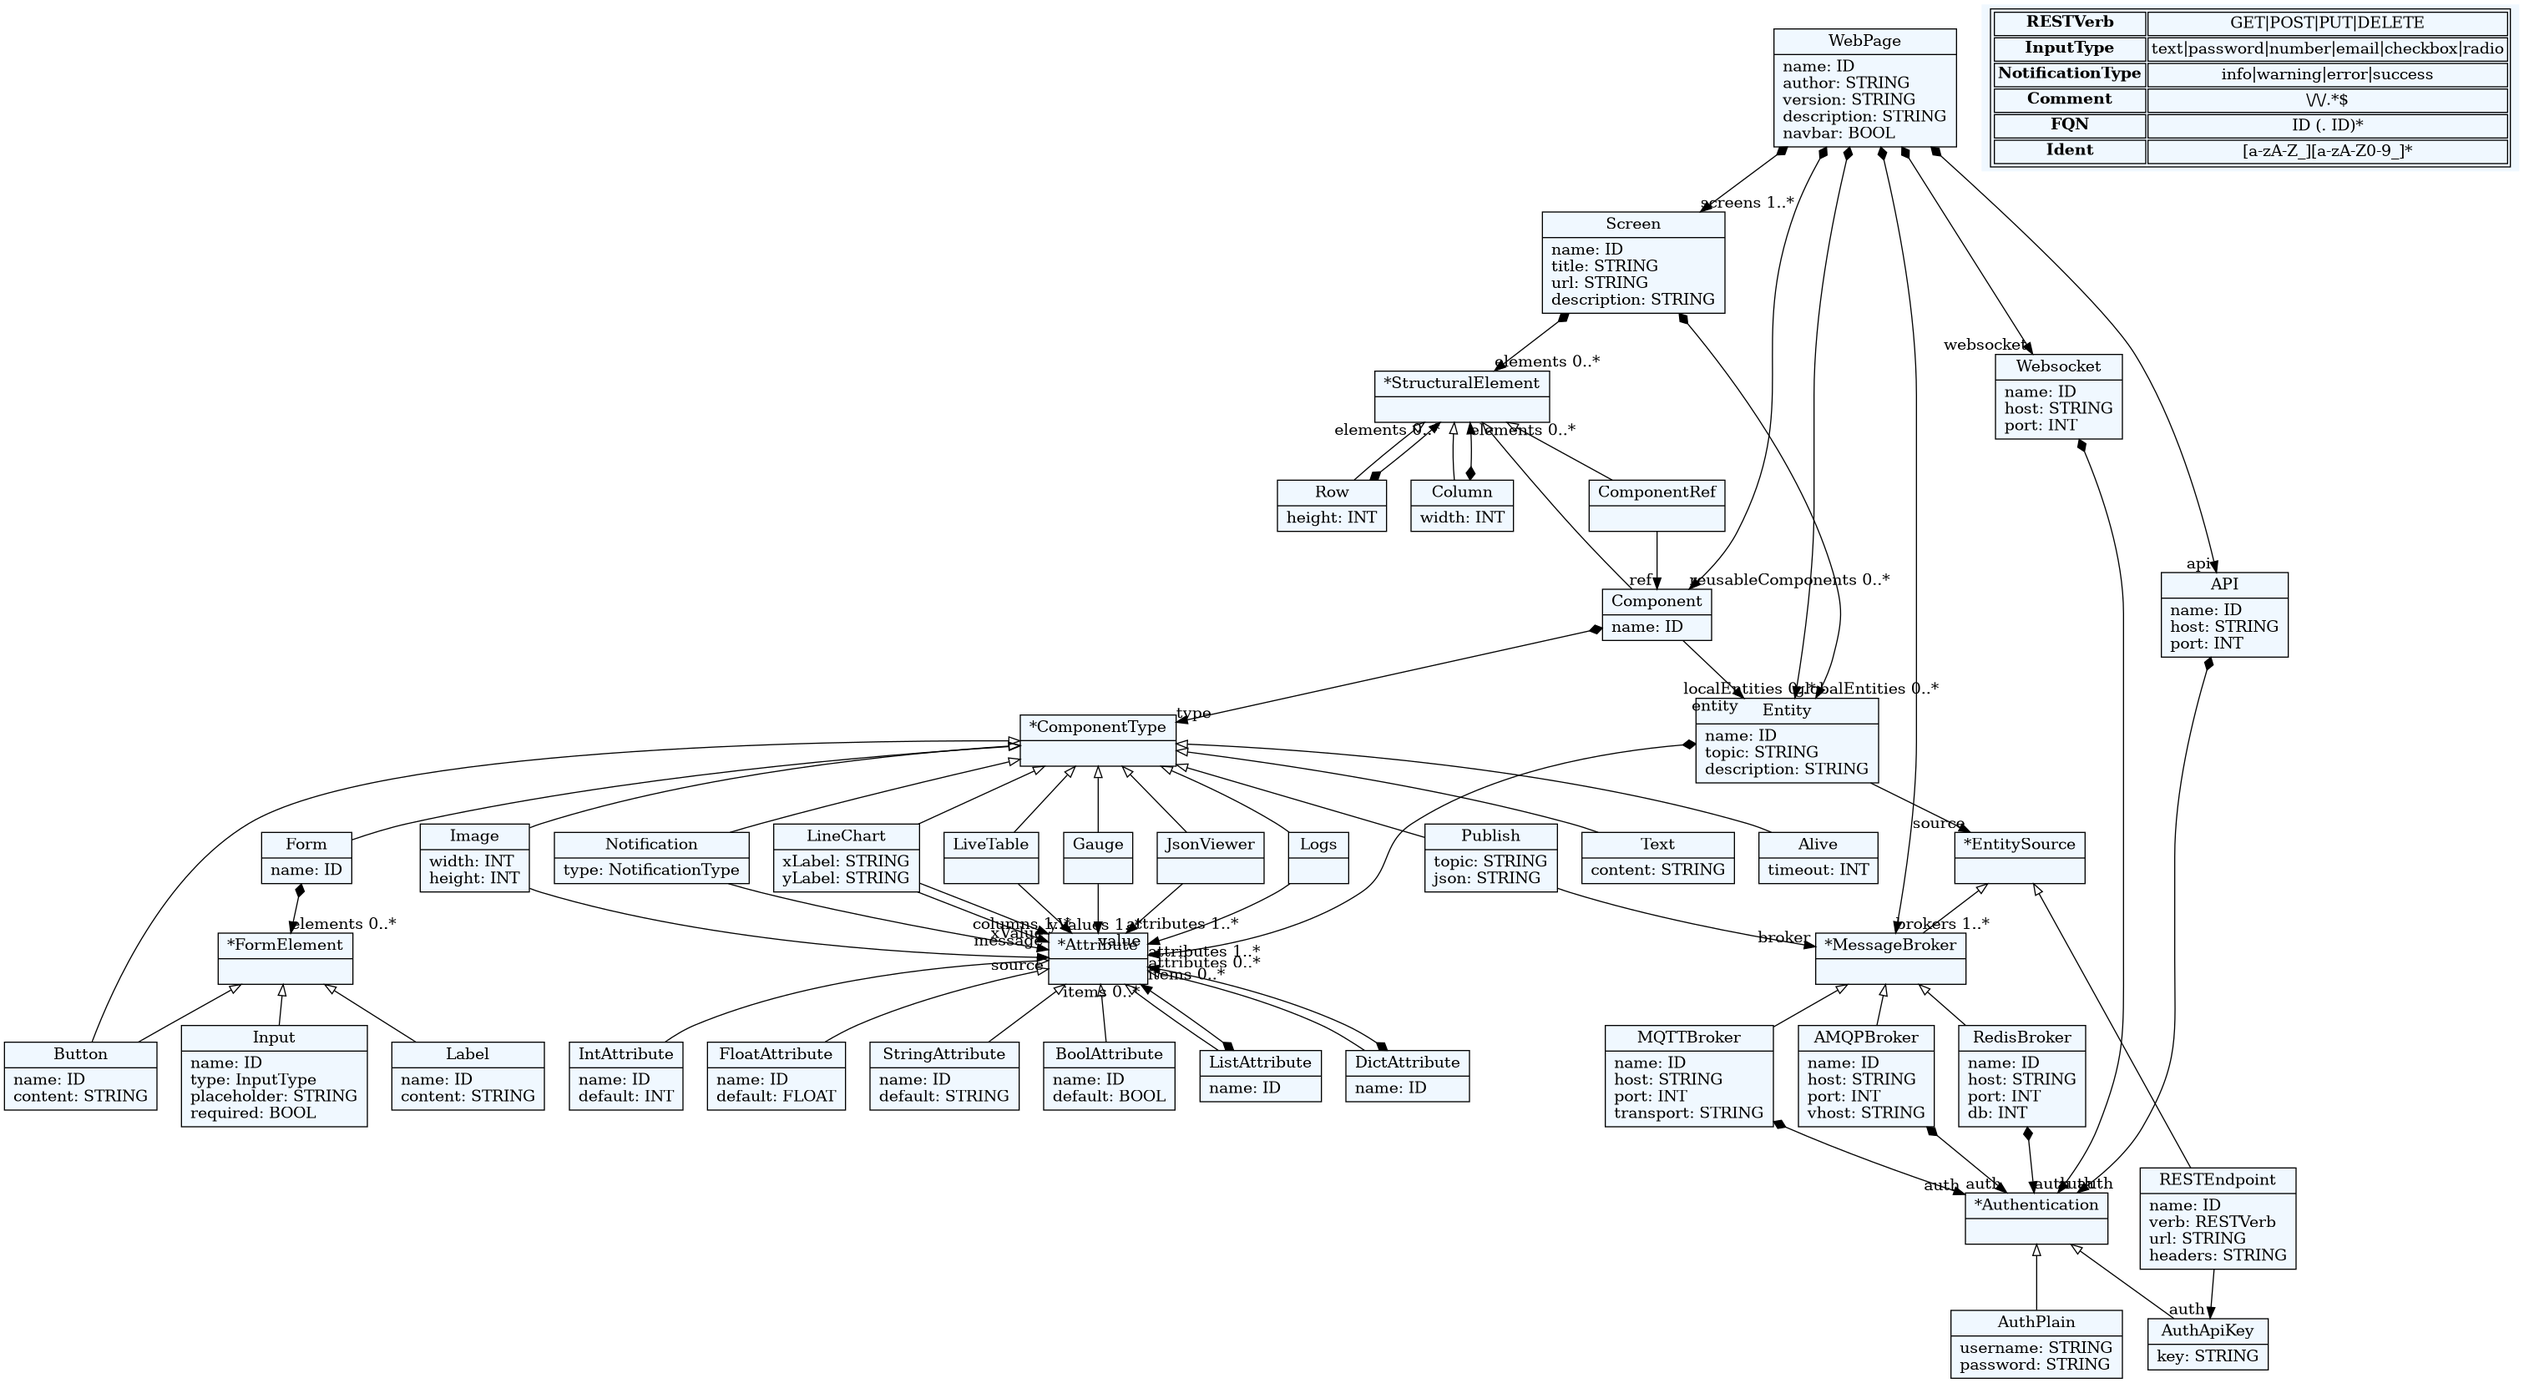
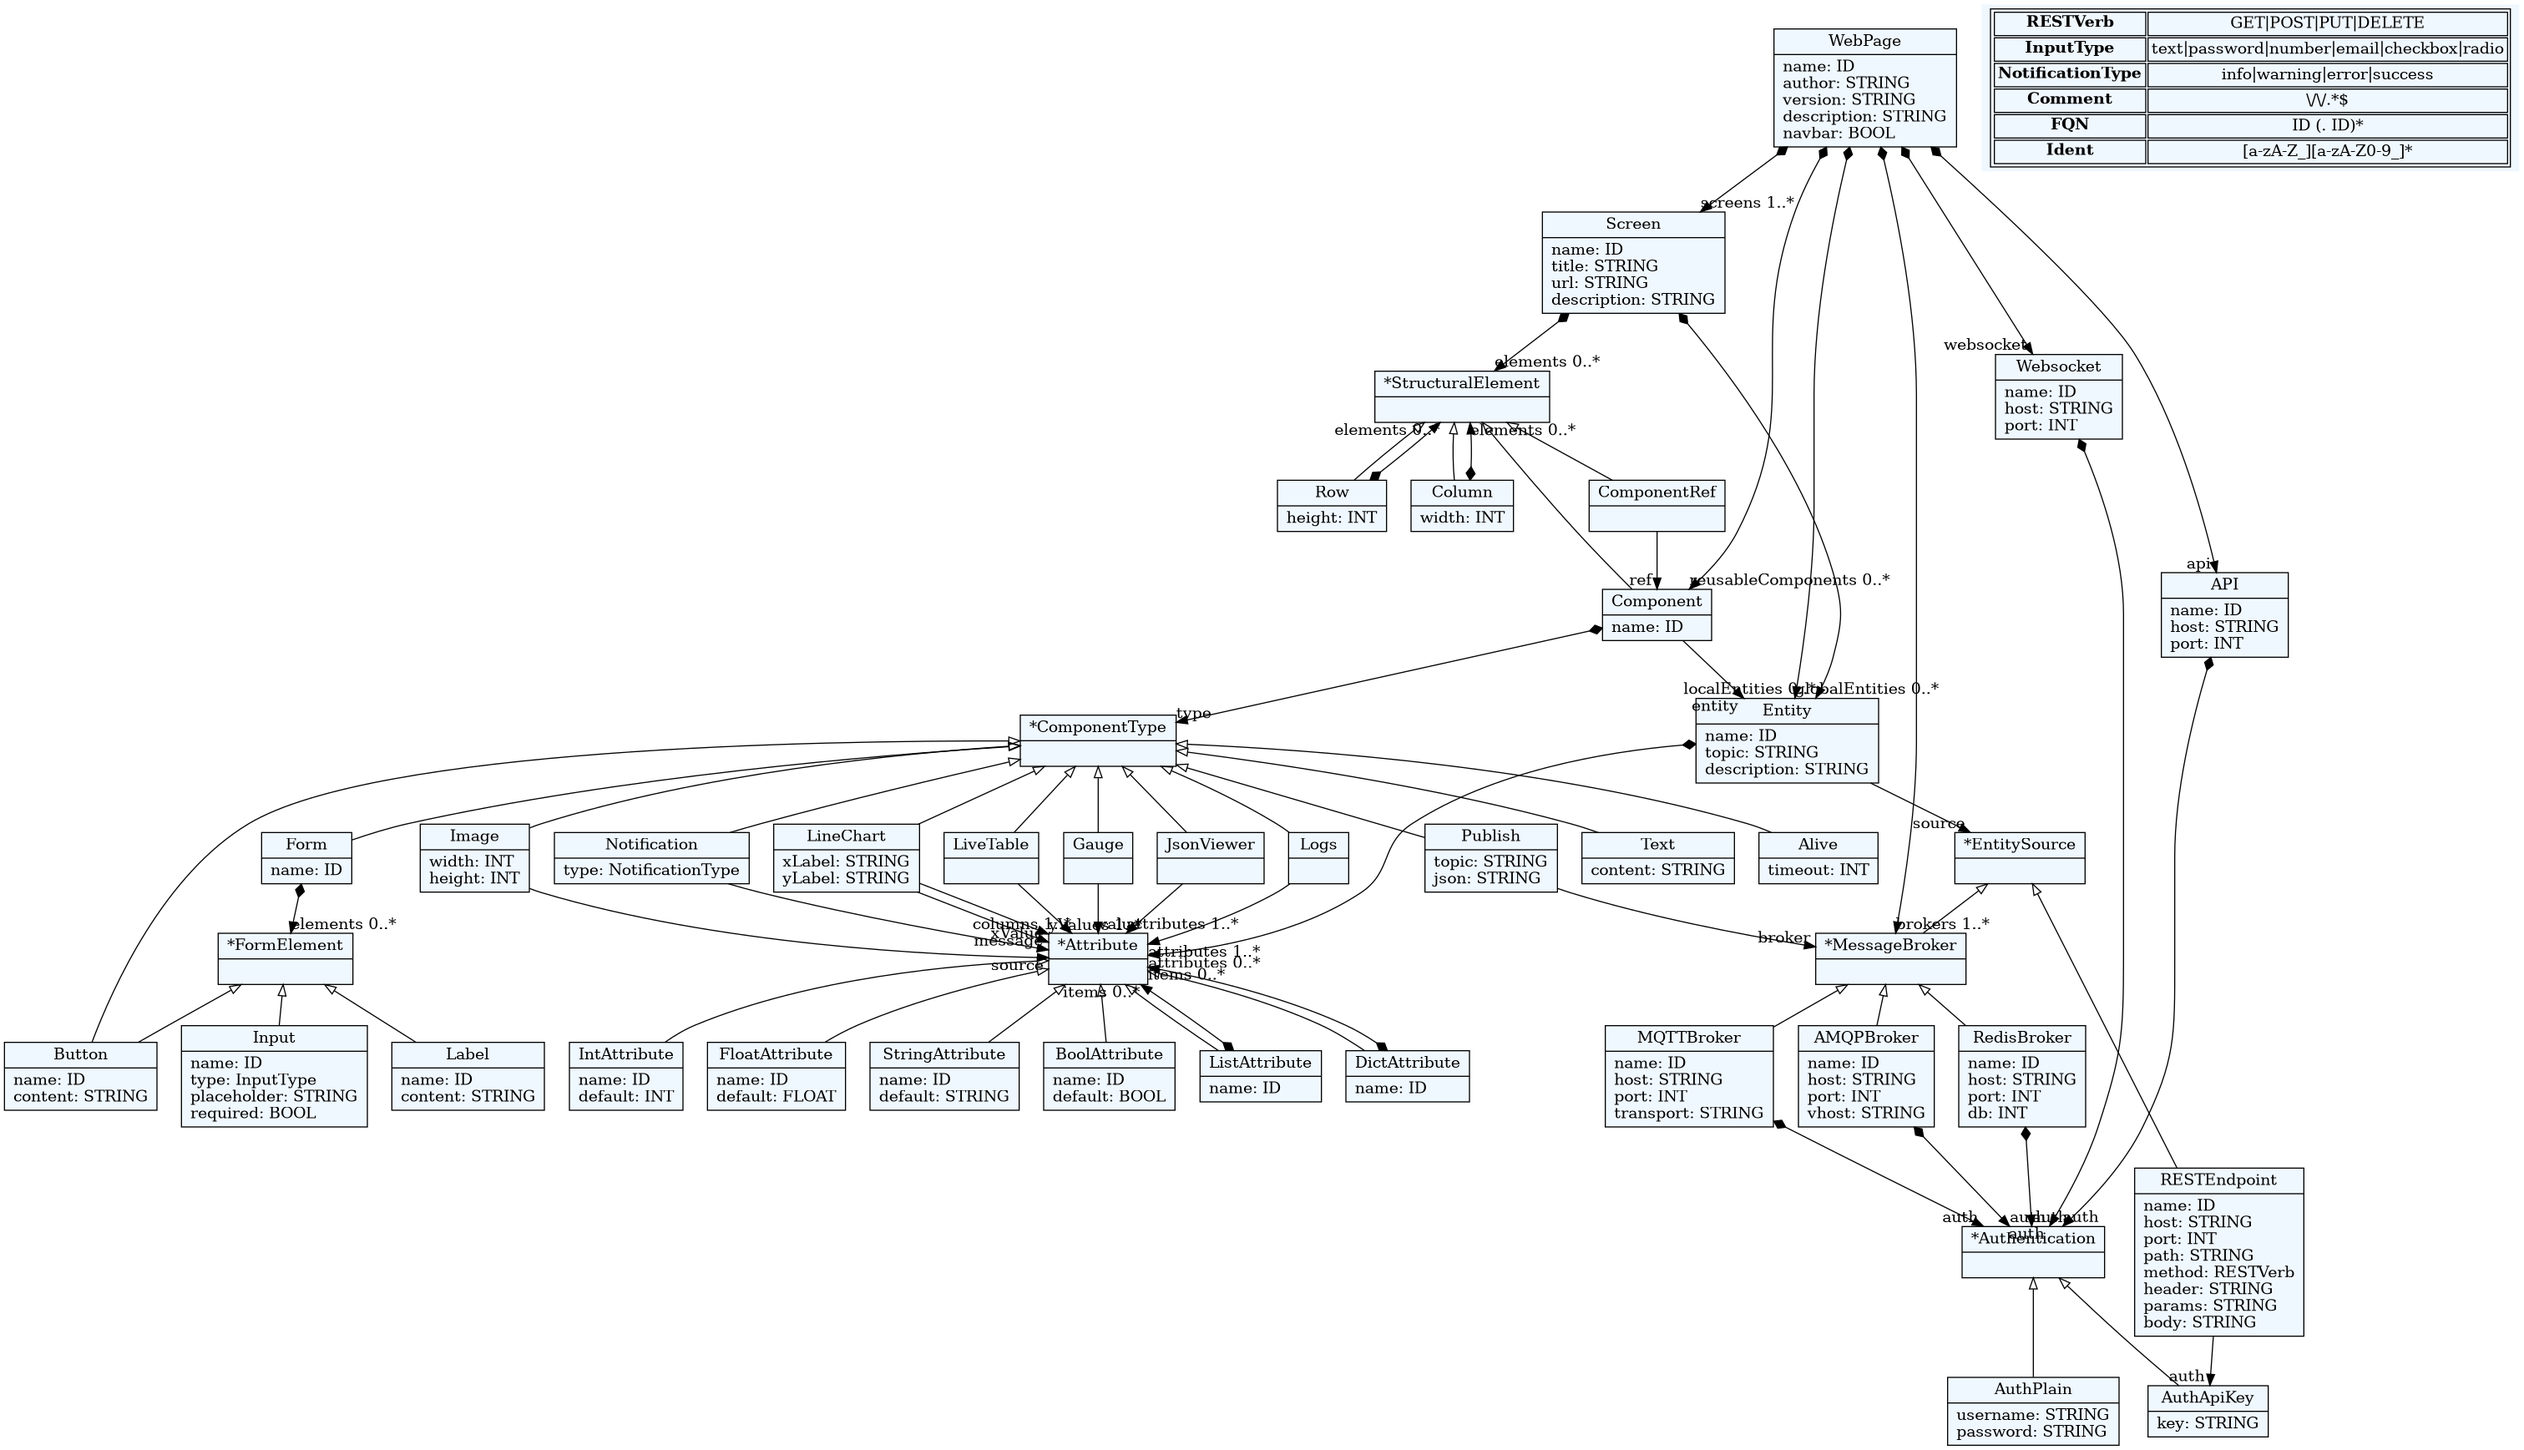
Rest endpoint corrected

Changed region(s): [[0.0, 0.0, 0.995, 1.0], [0.8396, 0.3693, 0.9018, 0.4925], [0.7774, 0.2154, 0.8396, 0.3386]]

diff --git a/web_dsl/base/frontend_base/src/api/proxyRestCall.js b/web_dsl/base/frontend_base/src/api/proxyRestCall.js
@@ -2,20 +2,19 @@ import api from "./index";
 import { toast } from "react-toastify";
 
 export const proxyRestCall = async ({
-    baseUrl,
+    host,
+    port = 443,
     path,
     method = "GET",
     headers = {},
     params = {},
-    body = {},
-    port = 443
+    body = {}
 }) => {
     try {
         const restCallPayload = {
-            host: new URL(baseUrl).hostname,
+            host,
             port,
             path,
-            base_url: baseUrl,
             method,
             headers,
             params,

diff --git a/web_dsl/base/backend_base/main.py b/web_dsl/base/backend_base/main.py
@@ -147,17 +147,6 @@ class PublishRequest(BaseModel):
     topic: str
 
 
-class RESTCallRequest(BaseModel):
-    host: str
-    port: int
-    path: str
-    base_url: str
-    method: str
-    headers: dict
-    params: dict
-    body: dict
-
-
 # Publish API endpoint
 @app.post("/publish")
 async def publish_message(
@@ -181,7 +170,17 @@ async def publish_message(
     return {"status": "error", "message": f"Broker {broker} not found"}
 
 
-# Endpoint to make rest calls
+class RESTCallRequest(BaseModel):
+    host: str
+    port: int
+    path: str
+    base_url: str
+    method: str
+    headers: dict
+    params: dict
+    body: dict
+
+
 @app.post("/restcall")
 async def rest_call(request: RESTCallRequest, api_key: str = Security(get_api_key)):
     """Make a REST call to a specified endpoint."""
@@ -198,17 +197,10 @@ async def rest_call(request: RESTCallRequest, api_key: str = Security(get_api_ke
                 json=request.body,  # use `data=` if it's form-encoded or raw
             )
 
-        return {
-            "status_code": response.status_code,
-            "headers": dict(response.headers),
-            "body": (
-                response.json()
-                if response.headers.get("content-type", "").startswith(
-                    "application/json"
-                )
-                else response.text
-            ),
-        }
+            if response.headers.get("content-type", "").startswith("application/json"):
+                return response.json()
+            else:
+                return response.text
 
     except httpx.RequestError as e:
         logging.error(f"HTTP request failed: {e}")

diff --git a/web_dsl/generate.py b/web_dsl/generate.py
@@ -143,7 +143,7 @@ def generate(model_path, gen_path):
         topic_configs.append(
             {
                 "topic": entity.topic,
-                "broker": entity.source.ref.name,
+                "broker": entity.source.name,
             }
         )
     print("Topic Configs: ", topic_configs)
@@ -195,7 +195,6 @@ def collect_entities(node, entities):
     """
     # Get the class name of the node
     node_type = node.__class__.__name__
-    print(f"Node type: {node_type}")
     # Handle Entity nodes
     if node_type == "Entity":
         entities.add(node)

diff --git a/web_dsl/lib/component.py b/web_dsl/lib/component.py
@@ -57,7 +57,7 @@ class Component:
         self.entity = entity  # This should point to an Entity
         self.type = type  # This could be Gauge, etc.
         try:
-            entityRef = entity.source.ref.__class__.__name__
+            entityRef = entity.source.__class__.__name__
         except AttributeError:
             entityRef = None  # or "Unknown", or whatever fallback you prefer
         self.sourceOfContent = (
